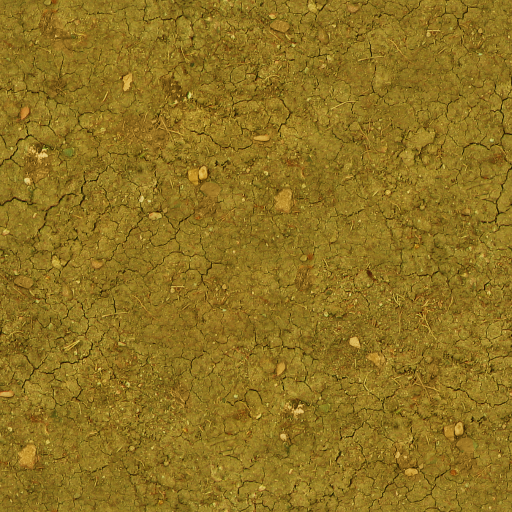
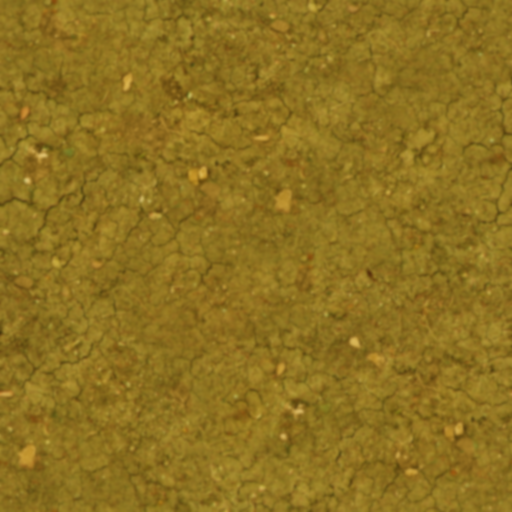
Added progressbar function to display load in VehicleMenu

diff --git a/IndustryEmpire/src/gui/ResourceLoadController.java b/IndustryEmpire/src/gui/ResourceLoadController.java
@@ -4,8 +4,11 @@ import java.util.ArrayList;
 
 import game.Resource;
 import game.ResourceSpec;
-import game.Vehicle;
 import game.VehicleSpecs;
+import javafx.beans.binding.Bindings;
+import javafx.beans.binding.NumberBinding;
+import javafx.beans.property.SimpleIntegerProperty;
+import javafx.beans.value.ChangeListener;
 import javafx.collections.transformation.FilteredList;
 import javafx.event.ActionEvent;
 import javafx.event.EventHandler;
@@ -38,14 +41,11 @@ public class ResourceLoadController {
 	@FXML
 	public ProgressBar vehLoad;
 	
-//	static DoubleProperty progressProp;
-//	NumberBinding sumResources;
-//	NumberBinding progress;
-//	boolean first = true;
-	
 	int load = 10;
 
 private VehicleSpecs vehicleSpecs;
+
+private NumberBinding leftLoad;
 	
     @FXML
     public void initialize() {
@@ -77,8 +77,34 @@ private VehicleSpecs vehicleSpecs;
     private void addResourceToLoad(ResourceSpec resSpec) {
     	ResourceSetter resourceSetter = new ResourceSetter(resSpec);
     	flowInputRes.getChildren().add(resourceSetter);
+    	bindProgressProperty();
     }
 
+    //TODO: Don't do this every time
+    private void bindProgressProperty() {
+    	FilteredList<Node> resSetters = flowInputRes.getChildren().filtered((node) -> {
+    		if(node instanceof ResourceSetter) {
+    			return true;
+    		} else {
+    			return false;
+    		} 
+    	});
+    	if(resSetters.size() > 0) {
+    		ResourceSetter resSetter0 = ((ResourceSetter)resSetters.get(0));
+    		NumberBinding num0 = resSetter0.amountProperty().add(new SimpleIntegerProperty(0));
+    		NumberBinding lastBinding = num0;
+    		for(int i=1;i<resSetters.size();i++) {
+    			ResourceSetter resSetter = ((ResourceSetter)resSetters.get(i));
+    			NumberBinding num = lastBinding.add(resSetter.amountProperty());
+    			lastBinding = num;
+    		}
+    		NumberBinding result = lastBinding.divide((double)load);
+    		vehLoad.progressProperty().bind(result);
+    		vehLoad.styleProperty().bind(
+    				Bindings.when(result.lessThan(1.0)).then("-fx-accent: green").otherwise("-fx-accent: red")
+    		);
+    	}    	
+    }
     
 	public Resource[] getResources() {
 		FilteredList<Node> resList = flowInputRes.getChildren().filtered((child) -> {
@@ -111,22 +137,5 @@ private VehicleSpecs vehicleSpecs;
         }
         stage.close();
     }
-
-	 
-	
-//	System.out.println(progressProp.doubleValue());
-//	if(first) {
-//		progressProp = vehLoad.progressProperty();
-//		sumResources = resourceSetter.amountProperty().add(0);
-////		sumResources.add(resourceSetter.amountProperty());
-//    	progress = sumResources.divide((double)load);
-//    	progressProp.bind(progress);
-//    	first = false;
-//	} else {
-//		System.out.println("else");
-//		progress = sumResources.add(resourceSetter.amountProperty()).divide((double)load);
-//		progressProp.bind(progress);
-//	}
-//	sumResources.getDependencies().forEach(System.out::println);
 	
 }

diff --git a/IndustryEmpire/src/gui/ResourceSingleController.java b/IndustryEmpire/src/gui/ResourceSingleController.java
@@ -1,18 +1,14 @@
 package gui;
 
+import javafx.beans.binding.NumberBinding;
 import javafx.beans.property.IntegerProperty;
 import javafx.beans.property.SimpleIntegerProperty;
-import javafx.event.ActionEvent;
-import javafx.event.EventHandler;
 import javafx.fxml.FXML;
-import javafx.scene.Node;
 import javafx.scene.control.Button;
 import javafx.scene.control.Label;
 import javafx.scene.image.Image;
 import javafx.scene.image.ImageView;
 import javafx.scene.input.MouseEvent;
-import javafx.stage.Stage;
-import javafx.stage.WindowEvent;
 import javafx.util.converter.NumberStringConverter;
 import mainpack.Const;
 
@@ -52,6 +48,15 @@ public class ResourceSingleController {
     }
     
     private void incAmount(int chg) {
+//    	if(leftLoad != null) {
+//        	int leftLoadInt = leftLoad.intValue();
+//        	if(leftLoadInt > chg) {
+//        		chg = leftLoadInt;
+//        	}
+//    	} else {
+//    		System.err.println("Left load not set! Use setLeftLoadBinding in "+ResourceSingleController.class.getName());
+//    	}
+
     	int newAmount = getAmount()+chg;
 		if(newAmount > Const.MAX_RES_CHOICE) {
 			newAmount = Const.MAX_RES_CHOICE;
@@ -70,7 +75,7 @@ public class ResourceSingleController {
 		} 
 		amount.set(newAmount);
 	}
-    
+	
 	/**
 	 * Returns the change of value depending on which key is pressed
 	 * @param event Mouseevent

diff --git a/IndustryEmpire/src/gui/WorldPane.java b/IndustryEmpire/src/gui/WorldPane.java
@@ -2,6 +2,8 @@ package gui;
 
 import java.util.ArrayList;
 
+import com.sun.glass.ui.Cursor;
+
 import game.City;
 import game.Position;
 import game.Vehicle;
@@ -21,6 +23,11 @@ public class WorldPane extends Pane{
 		this.setMinWidth(Const.MAPSIZE_X*1.1);
 		this.setMinHeight(Const.MAPSIZE_Y*1.1);
 		placeObjects();
+//		this.setCursor();
+
+		String image = WorldPane.class.getResource("/mud.png").toExternalForm();
+		this.setStyle("-fx-background-image: url('" + image + "'); " +
+		           "-fx-background-position: center center; ");
 
 //		File bg = new File("/graphics/mud.png");
 //		BackgroundImage myBI;

diff --git a/IndustryEmpire/src/gui/ResourceSetter.java b/IndustryEmpire/src/gui/ResourceSetter.java
@@ -5,6 +5,7 @@ import java.net.URL;
 
 import game.Resource;
 import game.ResourceSpec;
+import javafx.beans.binding.NumberBinding;
 import javafx.beans.property.IntegerProperty;
 import javafx.fxml.FXMLLoader;
 import javafx.scene.layout.HBox;
@@ -15,7 +16,12 @@ public class ResourceSetter extends Pane{
 
 	ResourceSingleController controller;
 	ResourceSpec resSpec;
+	NumberBinding leftLoad;
 	
+	/**
+	 * Creates a pane to set a single Resource amount
+	 * @param resSpec
+	 */
 	public ResourceSetter(ResourceSpec resSpec){
 		super();
 		this.resSpec = resSpec;

diff --git a/IndustryEmpire/src/gui/GuiCity.java b/IndustryEmpire/src/gui/GuiCity.java
@@ -4,6 +4,7 @@ import java.io.File;
 
 import game.City;
 import javafx.event.EventHandler;
+import javafx.scene.Cursor;
 import javafx.scene.effect.ColorAdjust;
 import javafx.scene.effect.Effect;
 import javafx.scene.effect.Glow;
@@ -59,6 +60,7 @@ public class GuiCity {
 		text = new Text(city.getName());
 		text.relocate(0, 30);
 		pane.getChildren().addAll(iv, text);
+		pane.setCursor(Cursor.HAND);
 	}
 	
 	public void highlight() {

diff --git a/IndustryEmpire/src/mainpack/IndustryMain.java b/IndustryEmpire/src/mainpack/IndustryMain.java
@@ -16,6 +16,7 @@ import gui.CityPane;
 import gui.WorldPane;
 import javafx.application.Application;
 import javafx.fxml.FXMLLoader;
+import javafx.scene.Cursor;
 import javafx.scene.Scene;
 import javafx.scene.layout.Pane;
 import javafx.scene.layout.VBox;

diff --git a/IndustryEmpire/src/gui/CityPane.java b/IndustryEmpire/src/gui/CityPane.java
@@ -7,6 +7,7 @@ import java.util.ArrayList;
 import game.City;
 import game.Resource;
 import javafx.fxml.FXMLLoader;
+import javafx.scene.Cursor;
 import javafx.scene.Scene;
 import javafx.scene.layout.VBox;
 import javafx.stage.Modality;
